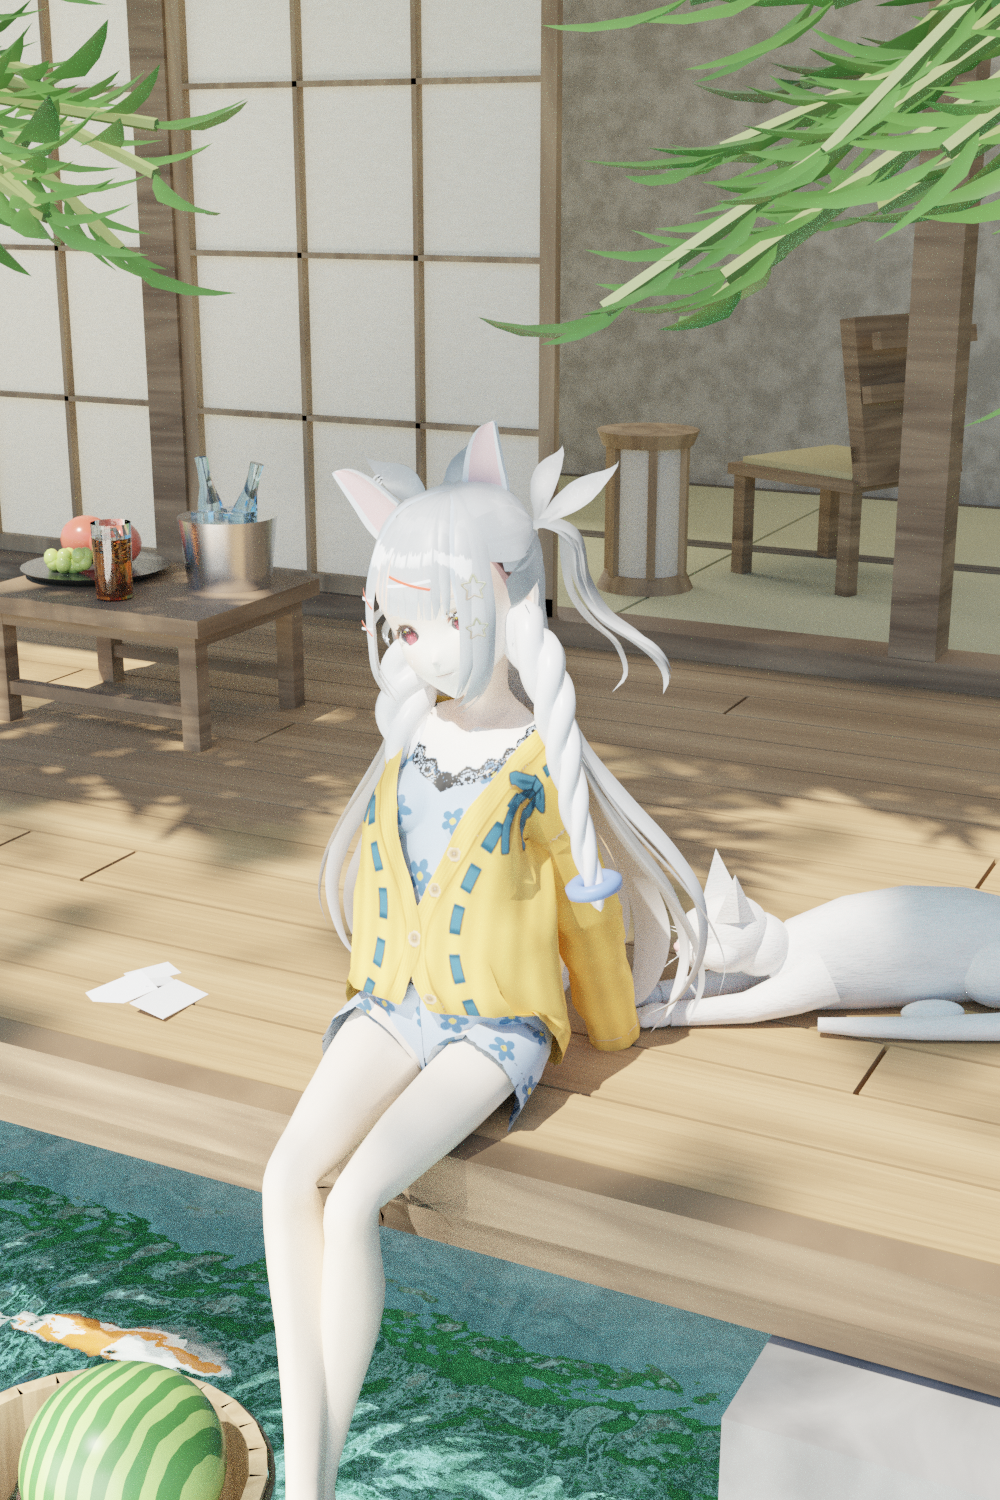
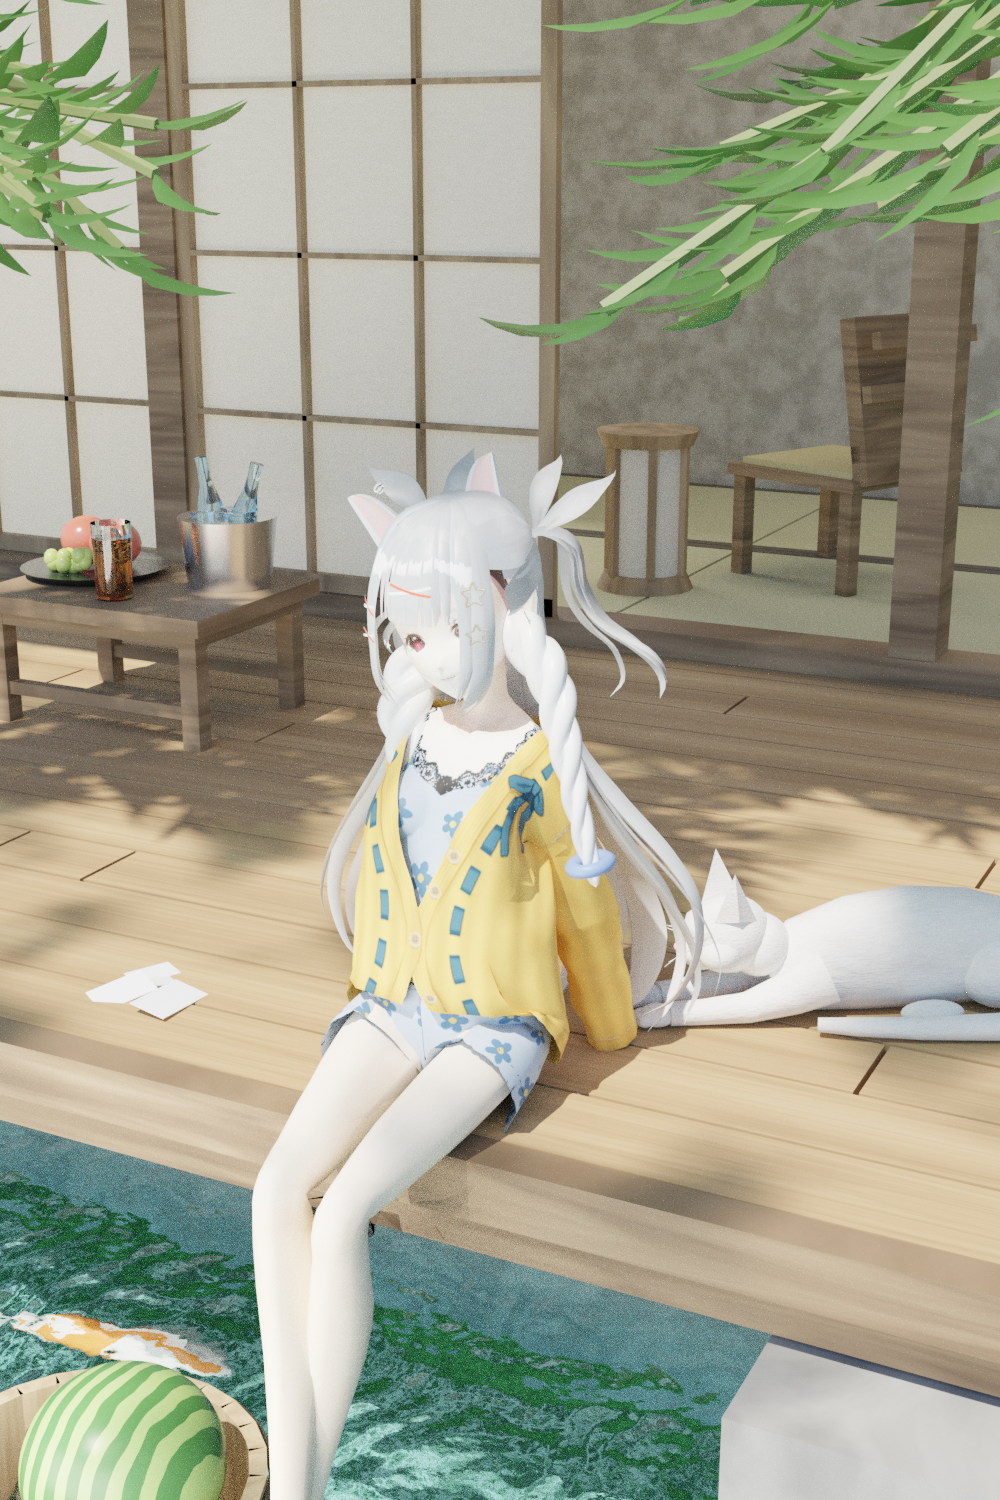
Build the yukata as geometry, worn open and off the shoulders
Her outfit was the base model's cardigan and dress with the textures
recoloured, which can change what colour a garment is but never what shape it
is. The reference's whole upper half is a different shape and no amount of
repainting reaches it.

Three things went wrong in order, and each was a different kind of mistake.

The first pass built the yukata over the cardigan she was still wearing, and
every piece of it vanished underneath. A garment cannot be layered onto a body
that is already dressed, so the tops now come off first -- VRoid keeps each
garment on its own material, so deleting the faces that use it separates the
cardigan from the body cleanly.

The sleeves then read as flat slabs, and I started reshaping them before
noticing they were being judged in the BIND pose: arms horizontal, sleeves seen
end-on down their own axis. This project already wrote that lesson down once in
NOTES_vrm_lessons.md, where a sleeve became a wing for exactly this reason. The
test poses her before rendering now, and the sleeves hang correctly off arms
that are actually down.

The collar -- the piece that decides whether this reads as a yukata or a
dressing gown -- appeared to be missing entirely. Measuring found it exactly
where it belonged, sitting at y=0.136 against a chest surface at y=0.099. It
was never mispositioned: it was a 3.6cm cream band against a pale blue
swimsuit, with no contrast and no width to be seen with. Widened and put in the
[…]

diff --git a/CharacterPrototype/tools/blender_garment.py b/CharacterPrototype/tools/blender_garment.py
@@ -1,0 +1,353 @@
+"""A yukata worn open and off the shoulders, built as geometry on the rig.
+
+The outfit she has is the base model's own cardigan and dress with the textures
+recoloured, which can change what colour a garment is but never what shape it
+is. The reference's whole upper half is a different shape: a yukata slipped off
+both shoulders, hanging open, with the wide sleeves around her upper arms and
+the body of it pooling behind her. No amount of repainting reaches that.
+
+What makes a yukata read as a yukata is the collar band -- the strip that comes
+over the shoulders and crosses left over right down the chest. Get that wrong
+and wide sleeves on an open robe just read as a dressing gown, so the collar is
+the piece that gets the most attention here.
+
+Paths are written in her standing rest-pose world space, in metres, and the
+pieces are then parented to the bones they hang from, so they follow the pose.
+She faces +Y.
+
+    blender --background --python tools/blender_garment.py
+"""
+import math
+import os
+import sys
+
+import bmesh
+import bpy
+from mathutils import Vector
+
+HERE = os.path.dirname(os.path.abspath(__file__))
+PROJECT = os.path.dirname(HERE)
+sys.path.insert(0, HERE)
+OUT_DIR = os.path.join(PROJECT, "assets", "blender")
+
+from blender_hair import catmull_rom, parallel_frames  # noqa: E402  (same repo)
+
+TAU = math.pi * 2
+
+# --- Where the garment sits --------------------------------------------------
+# Worn OFF the shoulders, so every path here is lower and wider than a yukata
+# actually fastened at the neck would be: the collar crosses the upper arms
+# rather than the collarbone, which is the whole look.
+# Standing clear of the skin on purpose. The first pass put these at the chest
+# surface itself and the whole collar rendered as nothing at all, buried inside
+# her -- cloth needs to sit ON the body, not in its skin.
+COLLAR_LEFT = [
+    (0.155, 0.020, 1.180),   # out at her left upper arm, where it has slipped to
+    (0.120, 0.105, 1.140),   # forward over the chest
+    (0.055, 0.122, 1.055),   # crossing toward the centre
+    (0.000, 0.112, 0.985),   # left panel crosses UNDER the right at the waist
+]
+COLLAR_RIGHT = [
+    (-0.155, 0.020, 1.180),
+    (-0.120, 0.108, 1.145),
+    (-0.050, 0.128, 1.060),
+    (0.012, 0.122, 0.980),   # right panel rides OVER, as a yukata is worn
+]
+# Round the back of the neck, joining the two front bands into one collar.
+COLLAR_BACK = [
+    (0.150, 0.020, 1.180), (0.110, -0.060, 1.215), (0.0, -0.085, 1.225),
+    (-0.110, -0.060, 1.215), (-0.150, 0.020, 1.180),
+]
+
+# Wide, and in the robe's own cloth rather than a contrast trim. The first
+# version was a 3.6cm cream band over a pale blue swimsuit -- measurement
+# confirmed it was sitting correctly in front of her chest (y=0.136 against a
+# body surface at y=0.099), so it was never mispositioned; it simply had no
+# contrast and no width to be seen with. A yukata collar reads as the EDGE of
+# the garment, which means it has to look continuous with the panels it closes.
+COLLAR_WIDTH = 0.058
+COLLAR_THICK = 0.010
+
+# Sleeves hang off the upper arms as open tubes. Yukata sleeves are wide and
+# square-ish rather than fitted, so these are much larger than the arm.
+# Sleeves run ALONG the arm rather than dangling off it, because they are
+# parented to the upper-arm bone and follow it once she is posed. Length is
+# kept well clear of width on purpose: this project has already learned once
+# (NOTES_vrm_lessons.md) that a cylinder whose length and diameter are the same
+# order reads, viewed near its own axis, as a flat slab -- last time a sleeve
+# became a wing, and the first pass here repeated it exactly.
+SLEEVES = {
+    "L": [(0.150, 0.012, 1.180), (0.255, 0.018, 1.168), (0.360, 0.026, 1.150)],
+    "R": [(-0.150, 0.012, 1.180), (-0.255, 0.018, 1.168), (-0.360, 0.026, 1.150)],
+}
+SLEEVE_RADIUS = (0.058, 0.082)     # narrower at the shoulder, flaring to the cuff
+
+# The body of the robe, hanging from the collar down her back and sides.
+BACK_PANEL_TOP = [(0.150, 0.015, 1.175), (0.0, -0.085, 1.215), (-0.150, 0.015, 1.175)]
+BACK_PANEL_DROP = 0.52
+BACK_PANEL_FLARE = 1.35            # widens toward the hem, the way cloth falls
+
+OBI = [(0.0, 0.105, 0.975)]        # a sash across the front at the waist
+OBI_WIDTH = 0.085
+OBI_THICK = 0.020
+
+BONES = {
+    "collar": "J_Bip_C_UpperChest",
+    "back": "J_Bip_C_Chest",
+    "obi": "J_Bip_C_Spine",
+    "sleeveL": "J_Bip_L_UpperArm",
+    "sleeveR": "J_Bip_R_UpperArm",
+}
+
+
+def log(*a):
+    print("[garment]", *a)
+
+
+def _finish(bm, name, material=None):
+    mesh = bpy.data.meshes.new(name)
+    bm.to_mesh(mesh)
+    bm.free()
+    for polygon in mesh.polygons:
+        polygon.use_smooth = True
+    obj = bpy.data.objects.new(name, mesh)
+    bpy.context.scene.collection.objects.link(obj)
+    if material:
+        obj.data.materials.append(material)
+    return obj
+
+
+def build_band(name, path, width, thickness, samples_per_span=12, material=None,
+               taper_end=1.0):
+    """Sweep a flat rectangle along a path -- a strip of folded cloth.
+
+    Rectangular rather than round because a collar is a folded band with two
+    faces and an edge; swept as a tube it reads as piping or as a rope trim.
+    """
+    spine = catmull_rom(path, samples_per_span)
+    frames = parallel_frames(spine)
+    count = len(spine)
+
+    bm = bmesh.new()
+    rings = []
+    for i, (point, (_, normal, binormal)) in enumerate(zip(spine, frames)):
+        t = i / max(count - 1, 1)
+        w = width * (1 + (taper_end - 1) * t) * 0.5
+        d = thickness * 0.5
+        rings.append([bm.verts.new(point + normal * sx * w + binormal * sy * d)
+                      for sx, sy in ((-1, -1), (1, -1), (1, 1), (-1, 1))])
+    for a, b in zip(rings, rings[1:]):
+        for s in range(4):
+            n = (s + 1) % 4
+            bm.faces.new((a[s], a[n], b[n], b[s]))
+    bm.faces.new(tuple(reversed(rings[0])))
+    bm.faces.new(tuple(rings[-1]))
+    return _finish(bm, name, material)
+
+
+def build_sleeve(name, path, radii, samples_per_span=10, segments=12,
+                 material=None):
+    """An open tube for a sleeve: no caps, so it reads as something to see into."""
+    spine = catmull_rom(path, samples_per_span)
+    frames = parallel_frames(spine)
+    count = len(spine)
+    start, end = radii
+
+    bm = bmesh.new()
+    rings = []
+    for i, (point, (_, normal, binormal)) in enumerate(zip(spine, frames)):
+        t = i / max(count - 1, 1)
+        radius = start + (end - start) * t
+        ring = []
+        for s in range(segments):
+            a = TAU * s / segments
+            # Squashed slightly across the body, since a hanging sleeve is not
+            # a circular pipe -- it collapses under its own weight.
+            ring.append(bm.verts.new(point
+                                     + normal * (math.cos(a) * radius)
+                                     + binormal * (math.sin(a) * radius * 0.72)))
+        rings.append(ring)
+    for a, b in zip(rings, rings[1:]):
+        for s in range(segments):
+            n = (s + 1) % segments
+            bm.faces.new((a[s], a[n], b[n], b[s]))
+    return _finish(bm, name, material)
+
+
+def build_back_panel(name, top_path, drop, flare, samples_per_span=14,
+                     rows=10, material=None):
+    """The body of the robe: a sheet hanging from the shoulder line.
+
+    Widened toward the hem and pushed back as it falls, because cloth hanging
+    off a body swings out rather than dropping in a straight cylinder.
+    """
+    top = catmull_rom(top_path, samples_per_span)
+    centre_x = sum(p.x for p in top) / len(top)
+
+    bm = bmesh.new()
+    grid = []
+    for r in range(rows + 1):
+        t = r / rows
+        row = []
+        for point in top:
+            spread = 1 + (flare - 1) * t
+            x = centre_x + (point.x - centre_x) * spread
+            # A gentle sag: the hem hangs further back than the shoulders.
+            y = point.y - 0.055 * t * t
+            z = point.z - drop * t
+            row.append(bm.verts.new(Vector((x, y, z))))
+        grid.append(row)
+    for a, b in zip(grid, grid[1:]):
+        for i in range(len(a) - 1):
+            bm.faces.new((a[i], a[i + 1], b[i + 1], b[i]))
+    return _finish(bm, name, material)
+
+
+# The base model's own tops, which have to come off before a yukata can be
+# seen. Deleting the faces that use this material is the whole operation --
+# VRoid keeps each garment on its own material, so the cardigan is separable
+# from the body underneath it without touching anything else.
+TOPS_MATERIAL = "Tops"
+
+
+def strip_garment(material_substring=TOPS_MATERIAL):
+    """Delete the faces wearing a given material, across every mesh.
+
+    The first pass built the yukata over her existing cardigan and every piece
+    of it -- collar, front panels, obi -- disappeared underneath. A garment
+    cannot be layered onto a body that is already dressed.
+    """
+    removed = 0
+    for obj in bpy.data.objects:
+        if obj.type != "MESH":
+            continue
+        slots = [i for i, sl in enumerate(obj.material_slots)
+                 if sl.material and material_substring in sl.material.name]
+        if not slots:
+            continue
+        bm = bmesh.new()
+        bm.from_mesh(obj.data)
+        doomed = [f for f in bm.faces if f.material_index in slots]
+        removed += len(doomed)
+        bmesh.ops.delete(bm, geom=doomed, context="FACES")
+        bm.to_mesh(obj.data)
+        bm.free()
+        obj.data.update()
+    log(f"stripped {removed} faces matching '{material_substring}'")
+    return removed
+
+
+def parent_to_bone(obj, armature, bone_name):
+    """Hang a piece off a bone without it jumping when the parent is set."""
+    world = obj.matrix_world.copy()
+    obj.parent = armature
+    obj.parent_type = "BONE"
+    obj.parent_bone = bone_name
+    obj.matrix_world = world
+
+
+def cloth_material(name, colour, roughness=0.72):
+    mat = bpy.data.materials.new(name)
+    mat.use_nodes = True
+    bsdf = mat.node_tree.nodes["Principled BSDF"]
+    bsdf.inputs["Base Color"].default_value = (*colour, 1)
+    bsdf.inputs["Roughness"].default_value = roughness
+    return mat
+
+
+# Summer yukata colours, picked to sit with the blue already on her.
+YUKATA_CLOTH = (0.86, 0.70, 0.30)
+YUKATA_COLLAR = (0.96, 0.94, 0.88)
+OBI_CLOTH = (0.16, 0.22, 0.48)
+
+
+def build_yukata(armature, cloth=None, collar=None, obi=None):
+    """Every piece, parented to the bone it hangs from. Returns the objects."""
+    cloth = cloth or cloth_material("YukataCloth", YUKATA_CLOTH)
+    collar = collar or cloth_material("YukataCollar", YUKATA_CLOTH, 0.66)
+    obi = obi or cloth_material("YukataObi", OBI_CLOTH, 0.66)
+
+    made = []
+    for name, path in (("Yukata_CollarBack", COLLAR_BACK),
+                       ("Yukata_CollarL", COLLAR_LEFT),
+                       ("Yukata_CollarR", COLLAR_RIGHT)):
+        piece = build_band(name, path, COLLAR_WIDTH, COLLAR_THICK,
+                           material=collar, taper_end=0.85)
+        parent_to_bone(piece, armature, BONES["collar"])
+        made.append(piece)
+
+    for key, path in SLEEVES.items():
+        piece = build_sleeve(f"Yukata_Sleeve{key}", path, SLEEVE_RADIUS,
+                             material=cloth)
+        parent_to_bone(piece, armature, BONES[f"sleeve{key}"])
+        made.append(piece)
+
+    back = build_back_panel("Yukata_Back", BACK_PANEL_TOP, BACK_PANEL_DROP,
+                            BACK_PANEL_FLARE, material=cloth)
+    parent_to_bone(back, armature, BONES["back"])
+    made.append(back)
+
+    sash = build_band("Yukata_Obi",
+                      [(0.115, 0.060, 0.975), (0.0, 0.105, 0.968),
+                       (-0.115, 0.060, 0.975)],
+                      OBI_WIDTH, OBI_THICK, material=obi)
+    parent_to_bone(sash, armature, BONES["obi"])
+    made.append(sash)
+
+    log(f"built {len(made)} pieces: "
+        + ", ".join(o.name.replace("Yukata_", "") for o in made))
+    return made
+
+
+if __name__ == "__main__":
+    import blender_character
+
+    bpy.ops.wm.read_factory_settings(use_empty=True)
+    import blender_compose
+
+    root, arm = blender_character.build_character()
+    strip_garment()
+    # Pose her BEFORE judging the garment. In the T-pose her arms are
+    # horizontal, so a sleeve running along the arm is seen end-on and reads as
+    # a flat slab -- which sent the first pass chasing a shape problem that
+    # only existed in the bind pose. The sleeves hang off the arm bones and
+    # follow them down as soon as she is actually sitting.
+    blender_compose.apply_pose(arm, blender_compose.POSE_SEATED)
+    build_yukata(arm)
+    for obj in bpy.data.objects:
+        if obj.type == "MESH" and any(k in obj.name for k in ("Hair", "Ear")):
+            obj.visible_shadow = False
+
+    key = bpy.data.lights.new("Key", type="AREA")
+    key.energy, key.size = 400, 1.8
+    ko = bpy.data.objects.new("Key", key)
+    bpy.context.scene.collection.objects.link(ko)
+    ko.location = (1.1, 1.7, 2.0)
+    ko.rotation_euler = (Vector((0, 0, 0.95)) - Vector(ko.location)
+                         ).to_track_quat("-Z", "Y").to_euler()
+    world = bpy.data.worlds.new("W")
+    world.use_nodes = True
+    world.node_tree.nodes["Background"].inputs[0].default_value = (0.32, 0.35, 0.40, 1)
+    world.node_tree.nodes["Background"].inputs[1].default_value = 1.1
+    bpy.context.scene.world = world
+
+    cam_data = bpy.data.cameras.new("C")
+    cam_data.lens = 55
+    cam = bpy.data.objects.new("C", cam_data)
+    bpy.context.scene.collection.objects.link(cam)
+    cam.location = (0.42, 1.95, 1.15)
+    cam.rotation_euler = (Vector((0, 0, 0.95)) - Vector(cam.location)
+                          ).to_track_quat("-Z", "Y").to_euler()
+    bpy.context.scene.camera = cam
+
+    scene = bpy.context.scene
+    scene.render.engine = "CYCLES"
+    scene.cycles.device = "CPU"
+    scene.cycles.use_denoising = False
+    scene.cycles.samples = 70
+    scene.render.resolution_x, scene.render.resolution_y = 760, 950
+    scene.view_settings.view_transform = "Filmic"
+    os.makedirs(OUT_DIR, exist_ok=True)
+    scene.render.filepath = os.path.join(OUT_DIR, "garment_test.png")
+    bpy.ops.render.render(write_still=True)
+    log("wrote", scene.render.filepath)

diff --git a/CharacterPrototype/tools/blender_compose.py b/CharacterPrototype/tools/blender_compose.py
@@ -541,4 +541,5 @@ def main():
                            f"compose-{tag}{'-front' if front else ''}{suffix}.png"))
 
 
-main()
+if __name__ == "__main__":
+    main()
